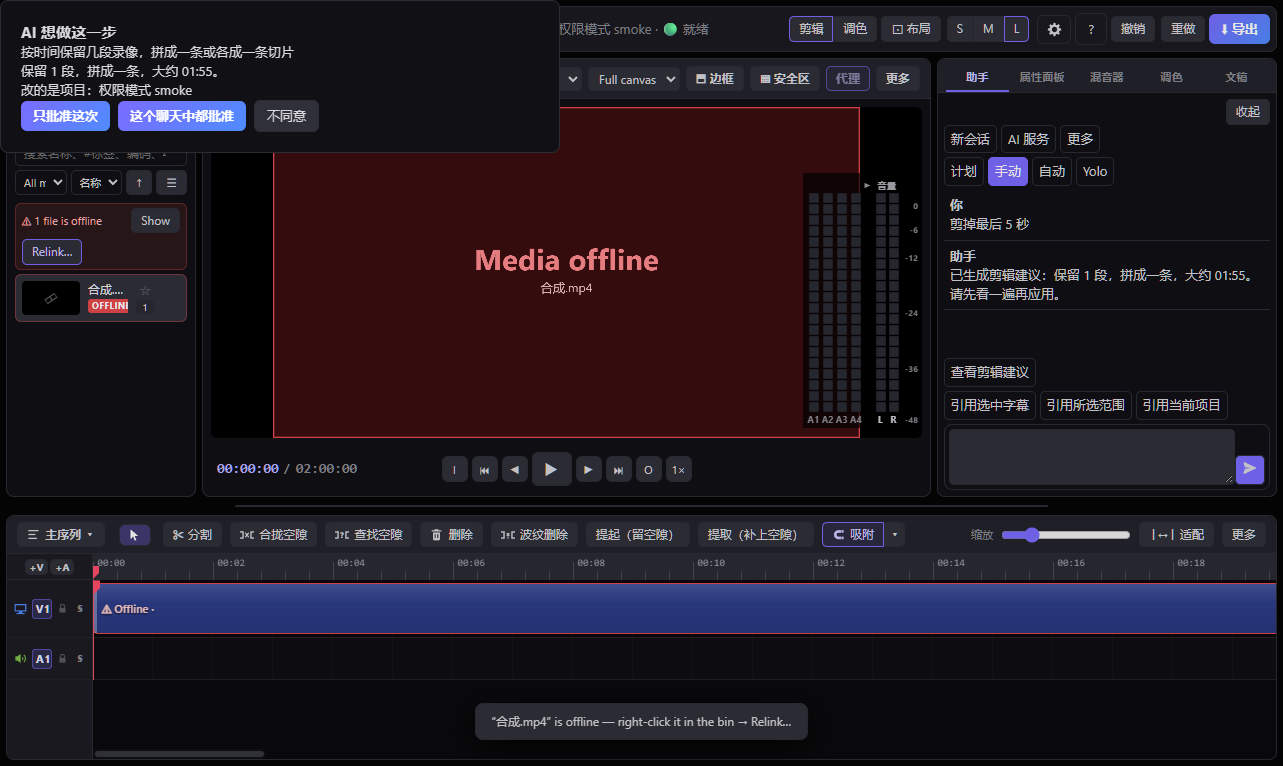
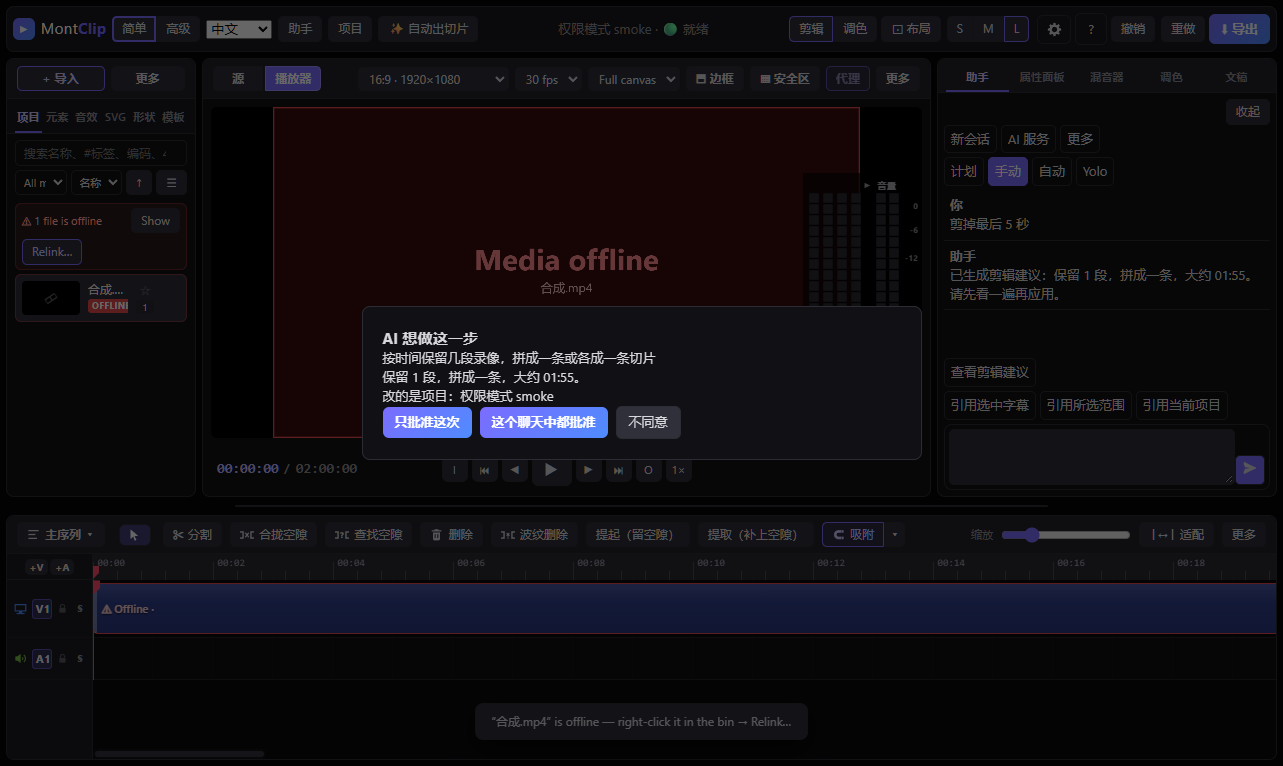
fix(p4): the approval box is centred over a dimmed page — the Win11 shots showed it pinned top-left (the page's `* { margin: 0 }`); shots and smoke output again

diff --git a/test/agent-modes-ui.test.js b/test/agent-modes-ui.test.js
@@ -80,3 +80,9 @@ test('JJ’s final words (5d360cd7) for the changed lines; the Yolo box follows 
  a.deepEqual(yoloText('zh-CN').buttons,['取消','打开 Yolo']);a.deepEqual(yoloText('en').buttons,['Cancel','Turn on Yolo']);
  a.match(read('desktop/main.js'),/const t = yoloText\(languageOf\(settings\.get\(\)\)\);/,'the box takes the interface language');
 });
+
+test('the approval box is centred over a dimmed page (the page resets every margin to 0)',()=>{
+ const css=read('style.css');
+ a.match(css,/^\* \{[^}]*margin: 0;/m);
+ a.match(css,/\.agent-approval \{ margin: auto; \}/);a.match(css,/\.agent-approval::backdrop \{ background: #0009; \}/);
+});

diff --git a/docs/demo/style.css b/docs/demo/style.css
@@ -4964,3 +4964,6 @@ body[data-mc-mode] .upper > .inspector { grid-column:3; grid-row:1; }
 .cq-dialog { color: var(--text); background: var(--panel); border: 1px solid var(--border); border-radius: 10px; width: min(440px, 92vw); padding: 14px 16px; }
 .cq-dialog::backdrop { background: rgba(0, 0, 0, 0.45); }
 .cq-dialog .dialog-actions { display: flex; justify-content: flex-end; margin-top: 8px; }
+/* the page's `* { margin: 0 }` would pin a modal dialog to the top-left corner: the approval box centres itself (Win11 shots) */
+.agent-approval { margin: auto; }
+.agent-approval::backdrop { background: #0009; }

diff --git a/style.css b/style.css
@@ -4964,3 +4964,6 @@ body[data-mc-mode] .upper > .inspector { grid-column:3; grid-row:1; }
 .cq-dialog { color: var(--text); background: var(--panel); border: 1px solid var(--border); border-radius: 10px; width: min(440px, 92vw); padding: 14px 16px; }
 .cq-dialog::backdrop { background: rgba(0, 0, 0, 0.45); }
 .cq-dialog .dialog-actions { display: flex; justify-content: flex-end; margin-top: 8px; }
+/* the page's `* { margin: 0 }` would pin a modal dialog to the top-left corner: the approval box centres itself (Win11 shots) */
+.agent-approval { margin: auto; }
+.agent-approval::backdrop { background: #0009; }
